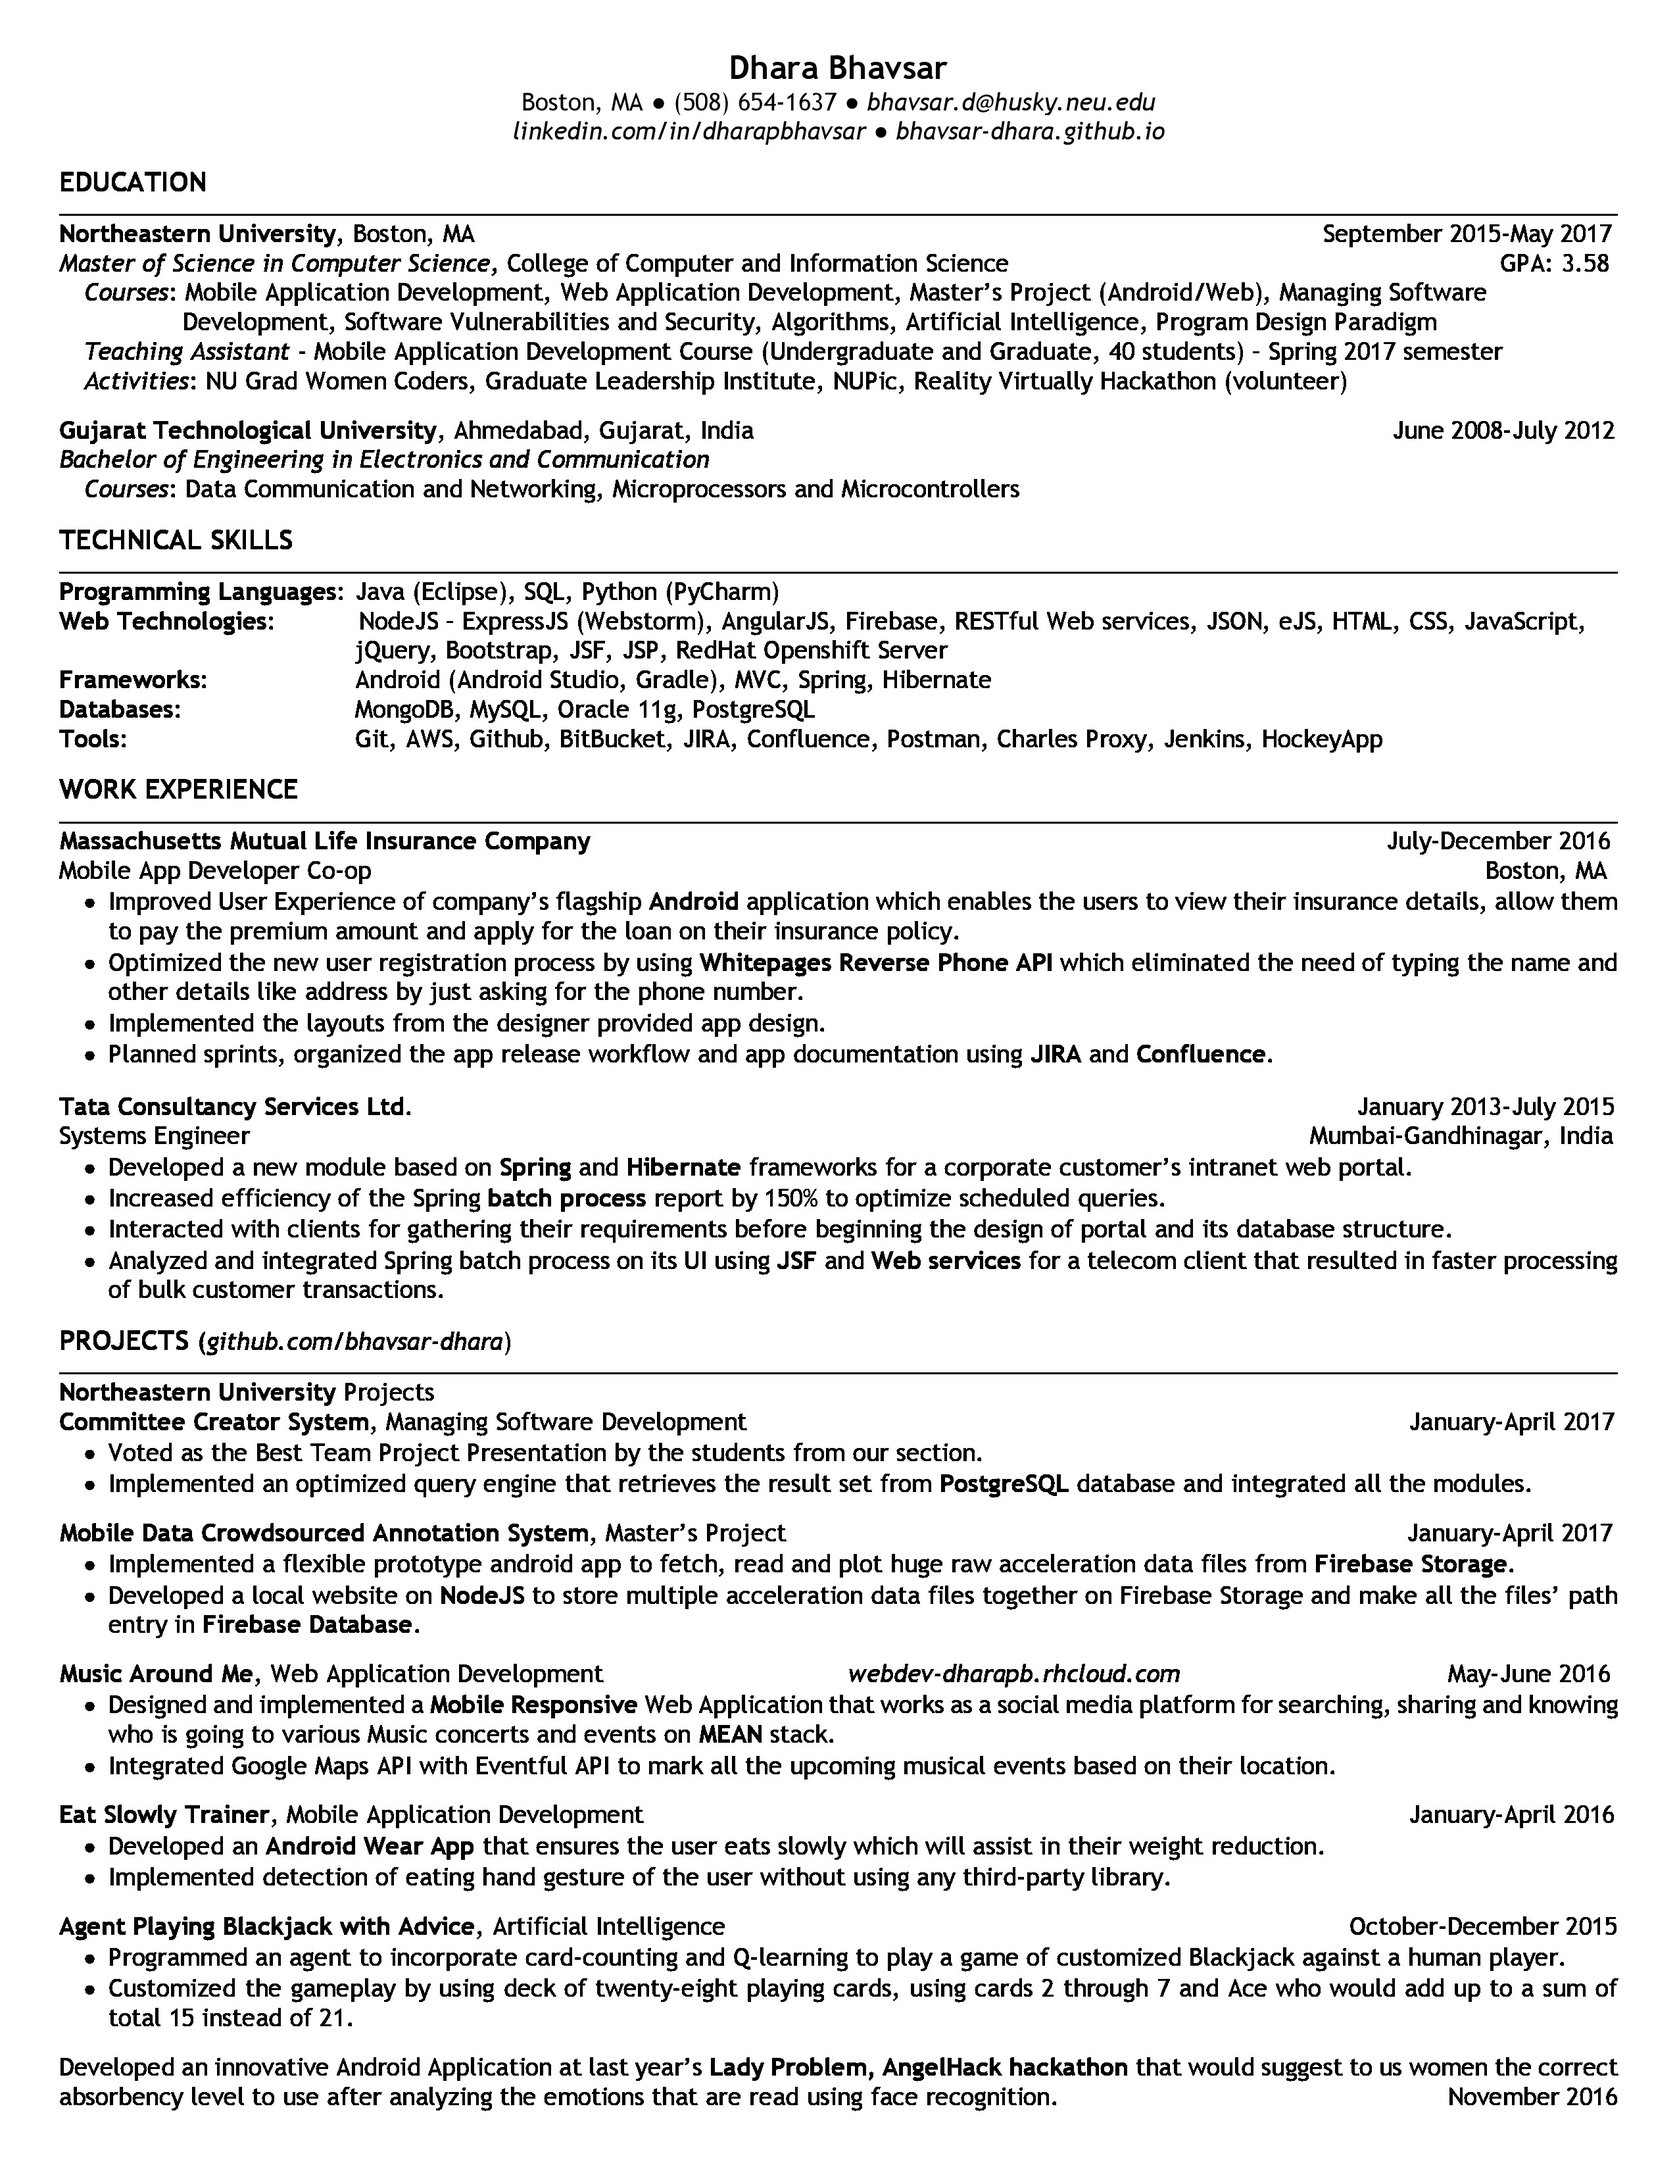
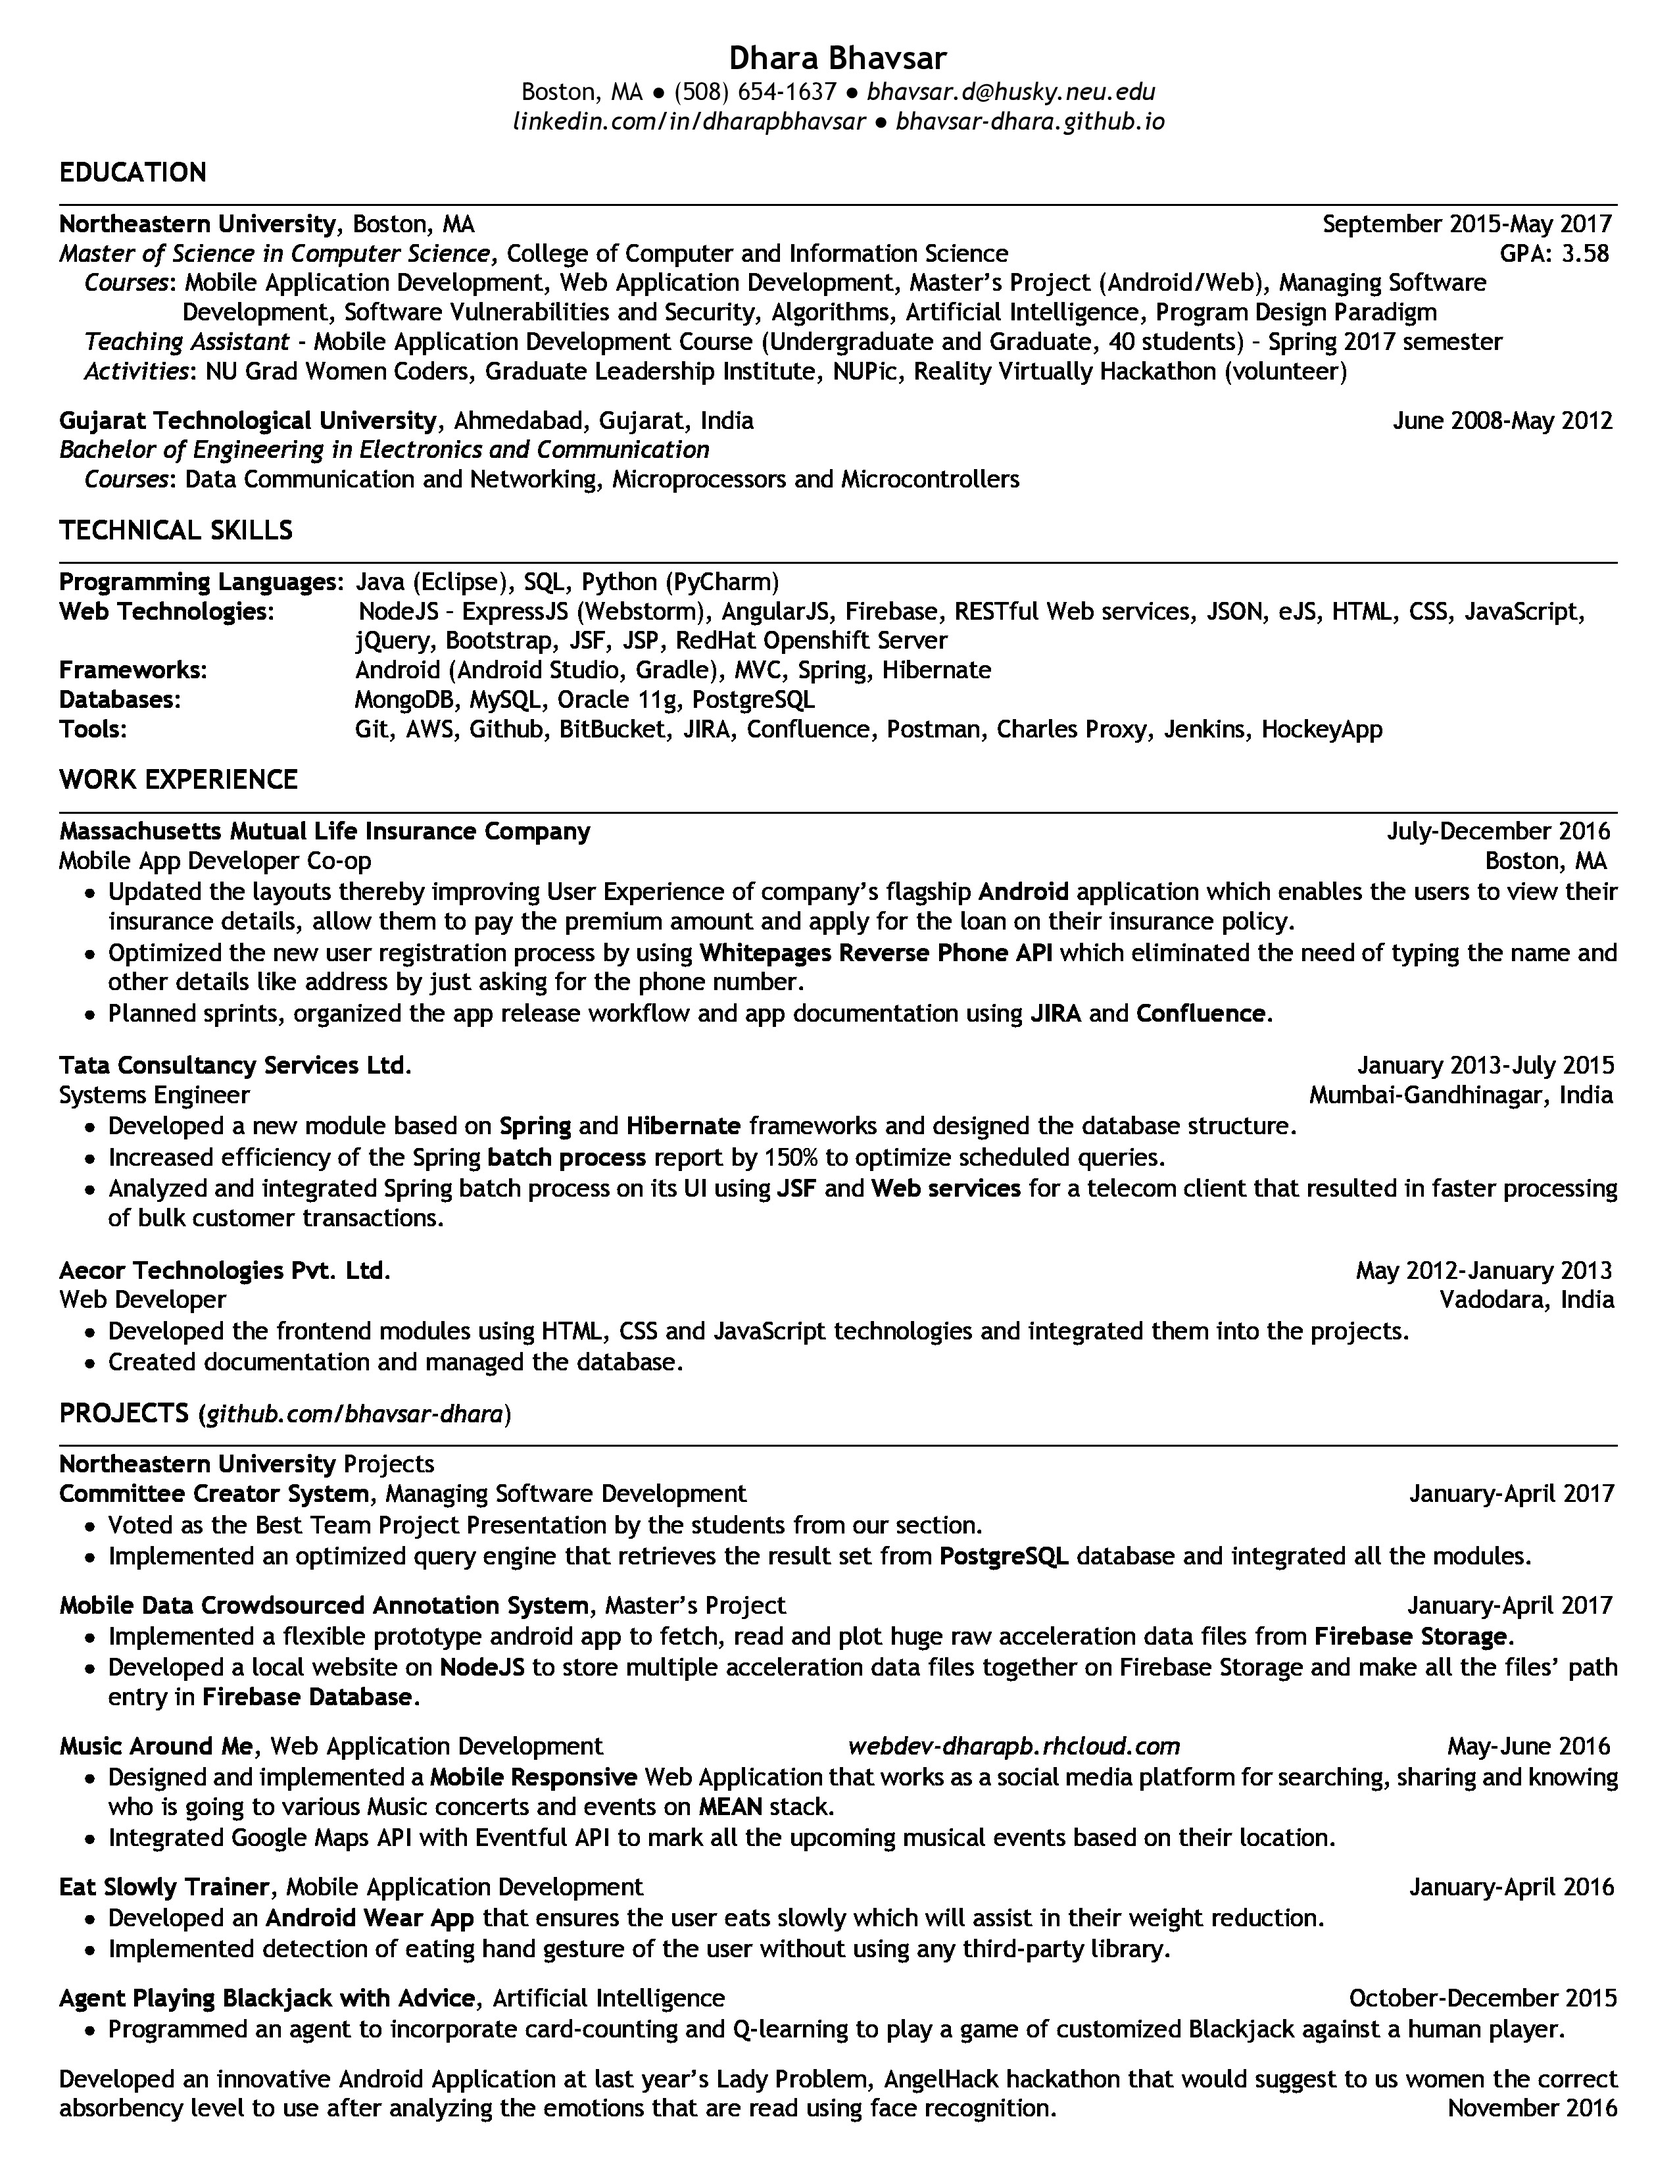
Updated the site contents

Changed region(s): [[0.031, 0.0624, 0.9604, 0.9988], [0.3098, 0.0, 0.7125, 0.0624], [0.8055, 0.2809, 0.9294, 0.3121]]

diff --git a/index.html b/index.html
@@ -312,16 +312,29 @@
                     </div>
                 </li>
                 <li>
+                    <div class="timeline-badge info"><i class="glyphicon glyphicon-calendar"></i></div>
+                    <div class="timeline-panel">
+                        <div class="timeline-heading">
+                            <p><small class="text-muted"><i class="glyphicon glyphicon-time"></i> May 2012 - January 2013</small></p>
+                            <h5 class="timeline-title">Web Developer, Aecor Technologies Pvt. Ltd.</h5>
+                        </div>
+                        <div class="timeline-body">
+                            <p></p>
+                        </div>
+                    </div>
+                </li>
+                <li class="timeline-inverted">
                     <div class="timeline-badge success"><i class="glyphicon glyphicon-check"></i></div>
                     <div class="timeline-panel">
                         <div class="timeline-heading">
-                            <p><small class="text-muted"><i class="glyphicon glyphicon-time"></i> June 2008 - July 2012</small></p>
+                            <p><small class="text-muted"><i class="glyphicon glyphicon-time"></i> June 2008 - May 2012</small></p>
                             <h5 class="timeline-title">Graduated as Bachelor of Engineering in Electronics and Communication</h5>
                         </div>
                         <div class="timeline-body">
                             <p><i>Courses:</i><br>
                                 Data Communication and Networking,<br>
-                                Microprocessors and Micro-controllers</p>
+                                Microprocessors and Micro-controllers
+                            </p>
                         </div>
                     </div>
                 </li>
